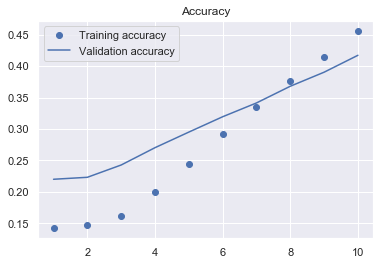
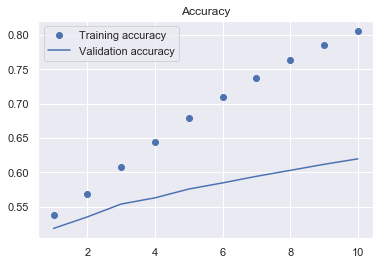
Trained Model

diff --git a/DenseCNN.py b/DenseCNN.py
@@ -17,8 +17,8 @@ train_generator = generate_image_data(training_directory)
 validation_generator = generate_image_data(validation_directory)
 
 history = model.fit_generator(train_generator,
-                              steps_per_epoch = 2,
-                              epochs = 1,
+                              steps_per_epoch = 500,
+                              epochs = 10,
                               validation_data = validation_generator,
                               validation_steps = 180)
 
@@ -34,7 +34,7 @@ test_generator = generate_image_data(test_directory, shuffle = False, batch_size
 error_specie = specie_error_rate_evaluator(model)
 
 # Plot individual expression error rate
-plot_species(error_specie, 'Individual expression error rate (Overall %.2f%% accuracy)' % (predict[1] * 100))
+plot_species(error_specie, 'Individual species error rate (Overall %.2f%% accuracy)' % (predict[1] * 100))
 
 #Plot confusion matrix
 plot_confusion_matrix(model)

diff --git a/Utils.py b/Utils.py
@@ -45,7 +45,7 @@ def plot_confusion_matrix(model):
     plt.show()
 
     print('*** Classification Report ***')
-    classified_report = classification_report(test_generator.classes, y_pred, class_names=class_names)
+    classified_report = classification_report(test_generator.classes, y_pred, target_names=class_names)
     print(classified_report)
 
 
